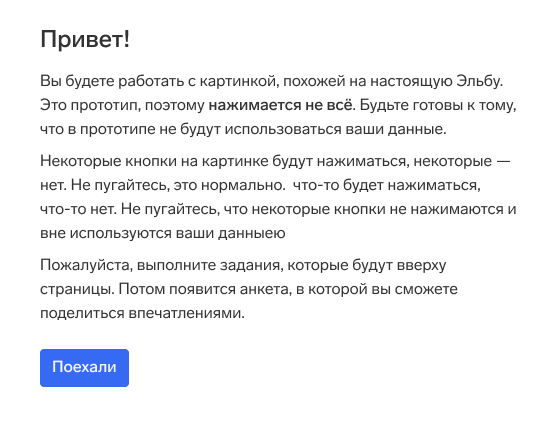
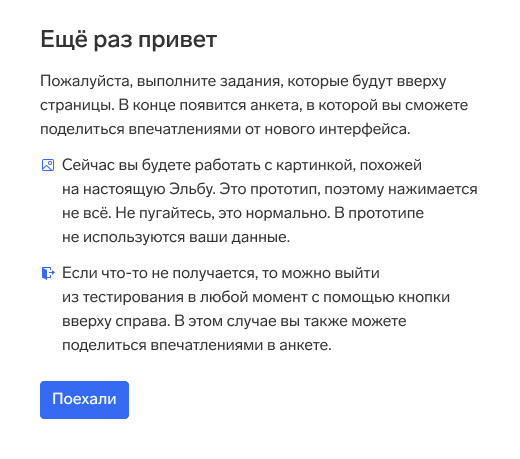
fix hello message

Changed region(s): [[0.0615, 0.1522, 0.9231, 0.9133], [0.0615, 0.0609, 0.4308, 0.1218]]

diff --git a/index.html b/index.html
@@ -31,7 +31,7 @@
 
   <img src="media/start.png" srcset="media/start@2x.png 2x" class="ui" style="margin-top: 0px;">
 
-  <img src="media/hello.png" srcset="media/hello@2x.png 2x" usemap="#image-map" class="message" style="width: 560px; height: 427px;">
+  <img src="media/hello.png" srcset="media/hello@2x.png 2x" usemap="#image-map" class="message" style="width: 520px; height: 459px;">
 
   <div class="footer">
     <!-- <img src="media/other.png" srcset="media/other@2x.png 2x" class="other"> -->
@@ -41,7 +41,7 @@
   <!-- Сюда вставим код для картинок -->
   <!-- Image Map Generated by http://www.image-map.net/ -->
   <map name="image-map">
-    <area target="" alt="" title="" href="main.html" coords="39,348,130,388" shape="rect">
+    <area target="" alt="" title="" href="main.html" coords="38,381,128,421" shape="rect">
   </map>
 
 </body>
